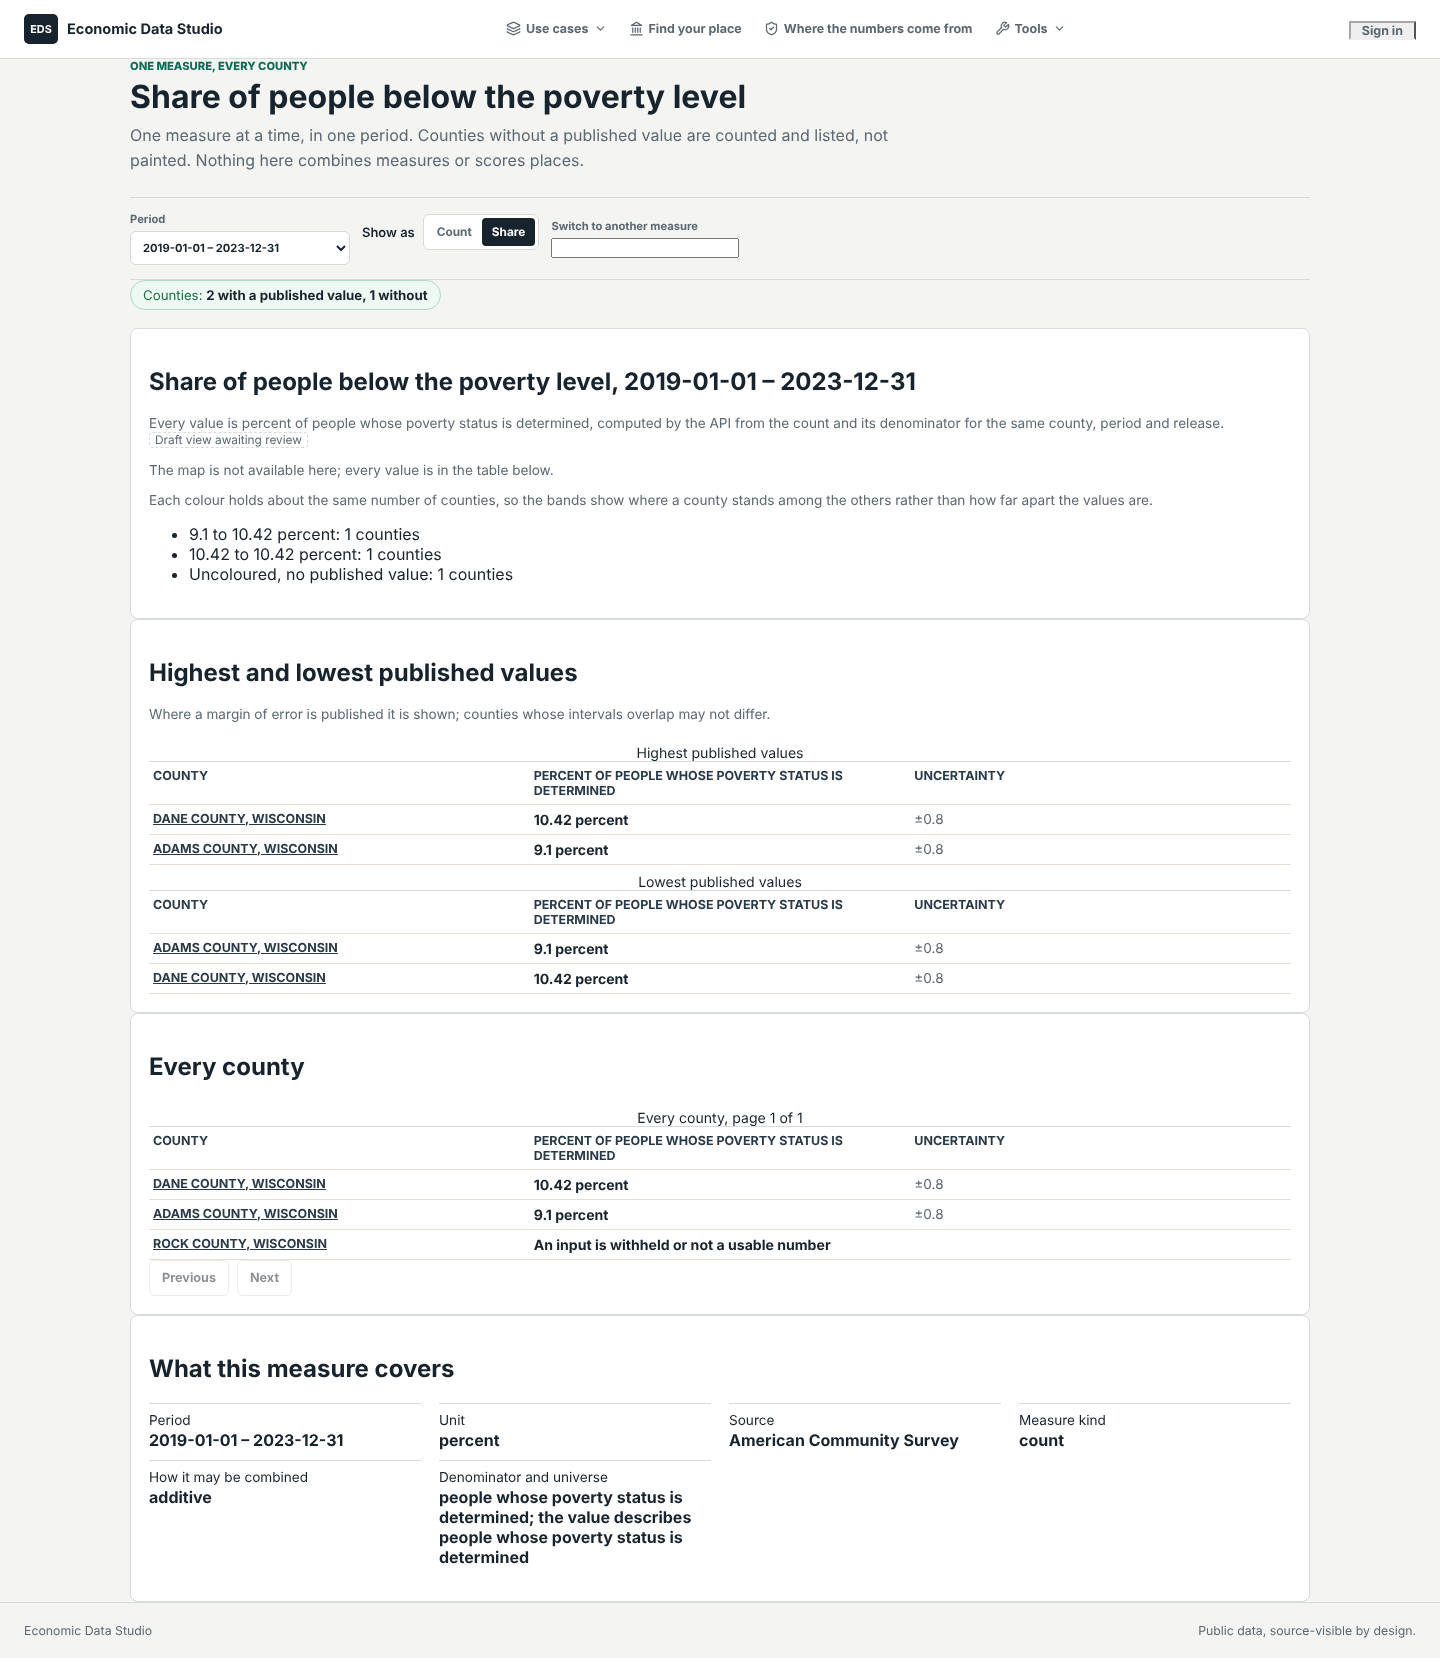
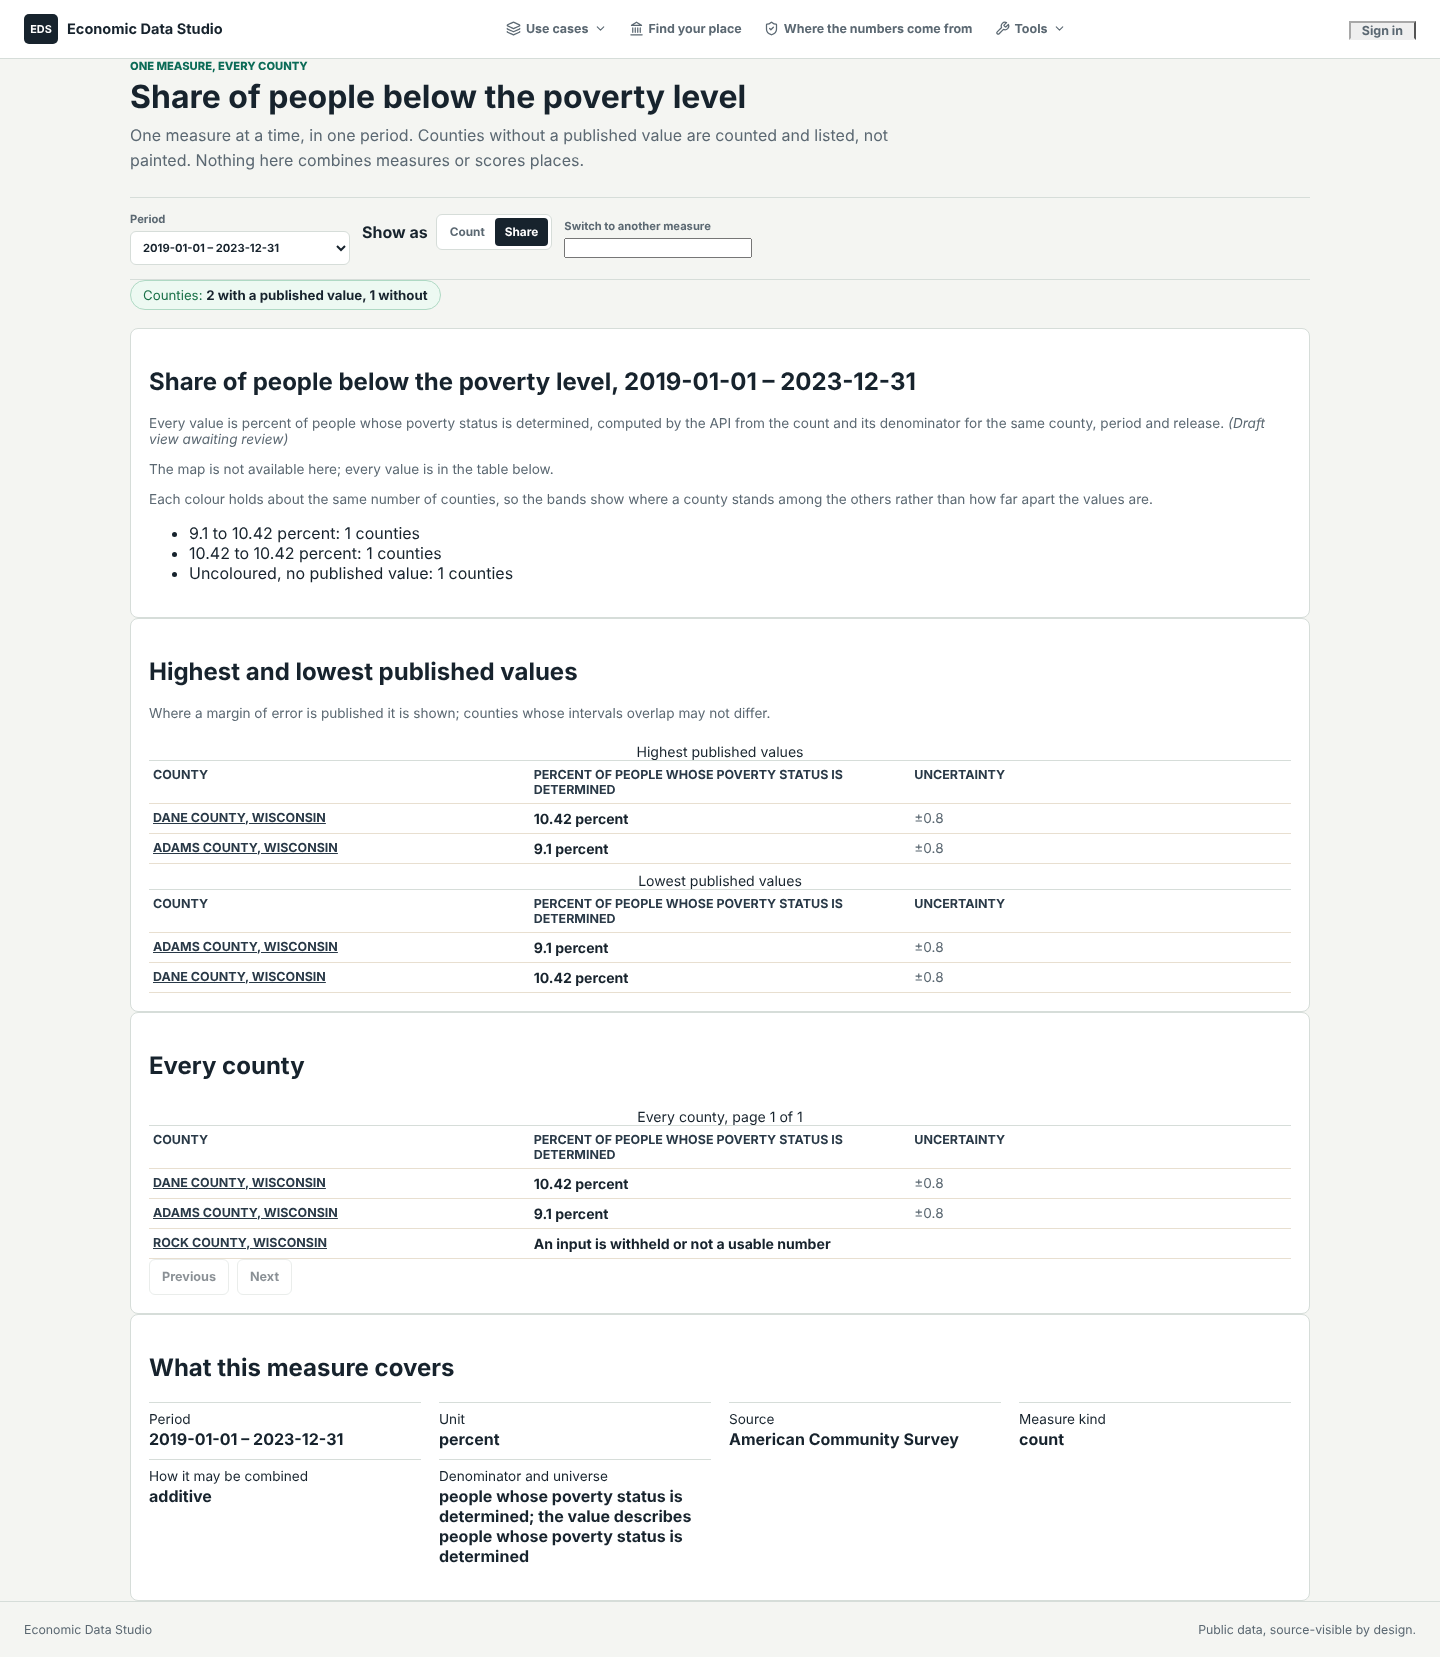
D-6: fit the layout bundle budget; record evidence after the dev merge
Claude-Session: https://claude.ai/code/session_011QW1frTevhjERG1ZHMzHt6

diff --git a/tests/frontend/browser/per-capita-toggle.spec.js b/tests/frontend/browser/per-capita-toggle.spec.js
@@ -38,7 +38,7 @@ test("reported violent crime: a county reads against its state on the FBI's own 
   await expect(page.getByTestId("card-violent-crime-rate-state")).toContainText("Wisconsin");
   const denominator = page.getByTestId("card-violent-crime-rate-denominator");
   await expect(denominator).toHaveText(/Per 100,000 people, denominator: population covered by reporting agencies, as the publisher computed it\./);
-  await expect(denominator.locator("[data-pairing-status='draft']")).toHaveText("Draft view awaiting review");
+  await expect(denominator.locator("[data-pairing-status='draft']")).toHaveText("(Draft view awaiting review)");
   // No count of offenses is on the page to divide, so no toggle is offered.
   await expect(page.getByTestId("chapter-safety-view")).toHaveCount(0);
   await safety.screenshot({ path: "test-results/per-capita/county-violent-crime.png" });
@@ -63,7 +63,7 @@ test("a share names its denominator for the county, its state and the nation", a
     await expect(line).toContainText("of total population (survey)");
     await expect(line).toContainText("2019-01-01 – 2023-12-31");
     await expect(line).toContainText("margin of error ±0.8 (Census Bureau formula for a derived proportion)");
-    await expect(line.locator("[data-pairing-status='draft']")).toHaveText("Draft view awaiting review");
+    await expect(line.locator("[data-pairing-status='draft']")).toHaveText("(Draft view awaiting review)");
   }
   // A measure the registry pairs with nothing keeps its count, and says so.
   await expect(page.getByTestId("chapter-people").locator("[data-testid$='-count-only']").first()).toContainText("showing the count");
@@ -149,7 +149,7 @@ test("the county map shows a count as a share, names the denominator, and keeps 
   await expect(page.getByTestId("measure-map")).toHaveAttribute("data-view", "share");
   await expect(page.getByRole("heading", { level: 1 })).toHaveText("Share of people below the poverty level");
   await expect(page.getByTestId("measure-map-denominator")).toContainText("Every value is percent of people whose poverty status is determined");
-  await expect(page.getByTestId("measure-map-draft")).toHaveText("Draft view awaiting review");
+  await expect(page.getByTestId("measure-map-draft")).toHaveText("(Draft view awaiting review)");
   const all = page.getByTestId("measure-map-all");
   await expect(all.locator("thead")).toContainText("Percent of people whose poverty status is determined");
   await expect(all.locator('tr[data-geo-id="state:55|county:025"] td').first()).toHaveText("10.42 percent");

diff --git a/apps/web/components/DerivedView.tsx b/apps/web/components/DerivedView.tsx
@@ -32,8 +32,8 @@ export function ViewToggle({
 }) {
   if (choices.length < 2) return null;
   return (
-    <div className="derived-toggle" data-testid={testId}>
-      <span className="derived-toggle-label" id={`${testId}-label`}>{label}</span>
+    <div className="command-row derived-toggle" data-testid={testId}>
+      <strong id={`${testId}-label`}>{label}</strong>
       <div className="segmented-control" role="group" aria-labelledby={`${testId}-label`}>
         {choices.map((choice) => (
           <button
@@ -55,16 +55,16 @@ export function ViewToggle({
 export function DraftViewMark({ pairing, testId }: { pairing: Pick<DerivedRatioPairing, "status" | "version">; testId?: string }) {
   if (!isDraft(pairing.status)) return null;
   return (
-    <span className="derived-draft" title={draftViewNote(pairing)} data-pairing-status={pairing.status} data-testid={testId}>
-      {DRAFT_VIEW_TEXT}
-    </span>
+    <em className="subtle" title={draftViewNote(pairing)} data-pairing-status={pairing.status} data-testid={testId}>
+      ({DRAFT_VIEW_TEXT})
+    </em>
   );
 }
 
 /** The denominator a provider's own rate was computed on, named under its card. */
 export function ProviderRateNote({ pairing, testId }: { pairing: DerivedRatioPairing; testId: string }) {
   return (
-    <p className="subtle derived-denominator" data-testid={testId} data-ratio-id={pairing.ratio_id}>
+    <p className="subtle" data-testid={testId} data-ratio-id={pairing.ratio_id}>
       {sentence(pairing.unit)}, {denominatorText(pairing)}.{" "}
       <DraftViewMark pairing={pairing} />
     </p>
@@ -97,7 +97,6 @@ export function DerivedValue({
   const available = row.value !== null && row.value !== undefined && !row.unavailable_reason;
   return (
     <span
-      className="derived-value"
       data-testid={testId}
       data-ratio-id={pairing.ratio_id}
       data-available={available ? "true" : "false"}
@@ -105,7 +104,7 @@ export function DerivedValue({
       data-derived={row.derived ? "true" : "false"}
     >
       <strong>{derivedValueText(row)}</strong>{" "}
-      <span className="derived-denominator">{denominatorText(pairing)}</span>
+      <span className="subtle">{denominatorText(pairing)}</span>
       {period ? <span className="subtle"> · {period}</span> : null}
       {margin ? <span className="subtle"> · {margin}</span> : null}{" "}
       <DraftViewMark pairing={{ status: row.pairing_status, version: row.pairing_version }} />

diff --git a/apps/web/components/PlacePage.tsx b/apps/web/components/PlacePage.tsx
@@ -22,8 +22,6 @@ import {
   fetchAllPages,
   fetchCollectionPages,
   getCapabilities,
-  getDerivedObservations,
-  getDerivedRatios,
   getMetric,
 } from "../lib/api/client";
 import type { CollectionResponse, GeographySummary, MetricSummary, Observation } from "../lib/api/types";
@@ -76,7 +74,7 @@ import type { NearbyGroups, RelatedResponse } from "../lib/placeRelationships";
 import { rankSentence, standouts } from "../lib/distinctive";
 import type { DistinctiveMeasure, DistinctiveResponse } from "../lib/distinctive";
 import { explorerHref } from "../lib/urlState";
-import { pairingFor, providerRateFor, viewChoices } from "../lib/derivedViews";
+import { getDerivedObservations, getDerivedRatios, pairingFor, providerRateFor, viewChoices } from "../lib/derivedViews";
 import type { DerivedRatioObservation, DerivedRatioPairing, ViewChoice } from "../lib/derivedViews";
 import { DerivedValue, ProviderRateNote, ViewToggle } from "./DerivedView";
 import type { GeoLevel } from "../lib/urlState";
@@ -1220,7 +1218,7 @@ function DepthRow({
           <ul className="derived-levels">
             {shown.map((entry) => (
               <li key={entry.geoId} data-testid={`depth-${measure.measure.id}-${entry.level.toLowerCase()}`}>
-                <span className="derived-place">{entry.name}:</span>{" "}
+                <strong>{entry.name}:</strong>{" "}
                 <DerivedValue pairing={pairing} {...(derived.get(derivedKey(pairing.ratio_id, entry.geoId)) || { row: null, pending: true })} />
               </li>
             ))}

diff --git a/apps/web/lib/derivedViews.ts b/apps/web/lib/derivedViews.ts
@@ -5,6 +5,8 @@
 // This module only chooses among the pairings the catalog serves and words
 // what the API returned, so the denominator is named beside every value.
 
+import { apiFetch } from "./api/client";
+import type { QueryParams, RequestOptions } from "./api/client";
 import { formatObservationValue } from "./explorerViewModel";
 import type { ObservationRow } from "./explorerViewModel";
 import { observationPeriodLabel } from "./observationAccess";
@@ -208,4 +210,17 @@ export function derivedMapRow(row: DerivedRatioObservation, viewKey: string): Ob
 
 export function viewKey(pairing: DerivedRatioPairing): string {
   return `derived:${pairing.ratio_id}`;
+}
+
+/** The per-capita and share pairings the API lists. */
+export function getDerivedRatios(
+  params: QueryParams = {},
+  options: RequestOptions = {},
+): Promise<{ total: number; items: DerivedRatioPairing[] }> {
+  return apiFetch<{ total: number; items: DerivedRatioPairing[] }>("/catalog/derived-ratios", { ...options, params });
+}
+
+/** One pairing's values, computed by the API over served rows. */
+export function getDerivedObservations(params: QueryParams, options: RequestOptions = {}): Promise<DerivedRatioPage> {
+  return apiFetch<DerivedRatioPage>("/observations/derived", { ...options, params });
 }

diff --git a/apps/web/lib/api/client.ts b/apps/web/lib/api/client.ts
@@ -27,7 +27,6 @@ import type {
   SourceFreshness,
   SourceSummary,
 } from "./types";
-import type { DerivedRatioPage, DerivedRatioPairing } from "../derivedViews";
 
 export const API_BASE = "/api/v1";
 
@@ -521,22 +520,6 @@ export function getObservations(
   options: RequestOptions = {},
 ): Promise<CollectionResponse<Observation>> {
   return apiFetch<CollectionResponse<Observation>>("/observations", { ...options, params });
-}
-
-/** The per-capita and share pairings the API lists (ADR-0009). */
-export function getDerivedRatios(
-  params: QueryParams = {},
-  options: RequestOptions = {},
-): Promise<{ total: number; items: DerivedRatioPairing[] }> {
-  return apiFetch<{ total: number; items: DerivedRatioPairing[] }>("/catalog/derived-ratios", { ...options, params });
-}
-
-/** One pairing's values, computed by the API over served rows (ADR-0009). */
-export function getDerivedObservations(
-  params: QueryParams,
-  options: RequestOptions = {},
-): Promise<DerivedRatioPage> {
-  return apiFetch<DerivedRatioPage>("/observations/derived", { ...options, params });
 }
 
 // The MVP-shaped observation routes are reached through

diff --git a/apps/web/app/styles/places.css b/apps/web/app/styles/places.css
@@ -369,44 +369,14 @@
   padding-left: 1.1rem;
 }
 
-/* Count, per-capita and share views (web-per-capita-toggle). The
-   denominator is named beside every derived value; a draft pairing says so. */
+/* Count, per-capita and share views (web-per-capita-toggle). */
 .derived-toggle {
-  display: flex;
-  flex-wrap: wrap;
-  align-items: center;
-  gap: 8px;
-  margin: 0 0 12px;
+  margin-bottom: 12px;
 }
-.derived-toggle-label {
-  font-size: 0.81rem;
-  font-weight: 600;
-}
-.derived-toggle .segmented-control button {
+.derived-toggle button {
   text-transform: none;
-}
-.derived-value {
-  overflow-wrap: anywhere;
-}
-.derived-denominator {
-  color: var(--muted);
-}
-.derived-draft {
-  display: inline-block;
-  border: 1px dashed var(--line);
-  border-radius: 4px;
-  padding: 0 5px;
-  font-size: 0.74rem;
-  color: var(--muted);
-  white-space: nowrap;
 }
 .derived-levels {
   list-style: none;
-  margin: 0;
   padding: 0;
-  display: grid;
-  gap: 4px;
-}
-.derived-place {
-  font-weight: 600;
 }

diff --git a/apps/web/components/MeasureMapPage.tsx b/apps/web/components/MeasureMapPage.tsx
@@ -18,7 +18,6 @@ import {
   fetchAllPages,
   fetchCollectionPages,
   getCapabilities,
-  getDerivedRatios,
   getMetric,
   getSources,
   searchMetrics,
@@ -44,7 +43,7 @@ import {
 import { PLACE_CHAPTERS, countySegment, placePath, stateSegment } from "../lib/placeChapters";
 import { discoverTileMetadata } from "../lib/tiles";
 import type { ObservationRow } from "../lib/explorerViewModel";
-import { denominatorText, derivedMapRow, pairingFor, viewChoices, viewKey } from "../lib/derivedViews";
+import { denominatorText, derivedMapRow, getDerivedRatios, pairingFor, viewChoices, viewKey } from "../lib/derivedViews";
 import type { DerivedRatioObservation, DerivedRatioPairing, ViewChoice } from "../lib/derivedViews";
 import { DraftViewMark, ViewToggle } from "./DerivedView";
 

diff --git a/docs/plans/needs_review/WEB_PER_CAPITA_TOGGLE_PLAN.md b/docs/plans/needs_review/WEB_PER_CAPITA_TOGGLE_PLAN.md
@@ -67,13 +67,14 @@ WEB-145 (frontend unit, frontend browser).
 
 ## Evidence (cloud session, Linux, 2026-10-31)
 
-- `npm run test:unit`: 881 passed (6 new in `derived-views.test.js`).
-- `npm run lint`, `npm run typecheck`, `next build`: pass.
-- `npx playwright test`: 256 passed on this branch, 5 new in
-  `per-capita-toggle.spec.js`; 257 passed on a trial merge with D-2 (#177),
-  whose scan for variable codes runs after every browser test.
+- `npm run test:unit`: 884 passed after merging dev (6 new in `derived-views.test.js`).
+- `npm run lint`, `npm run typecheck`, `next build`, `check:bundle` (/layout 506.9 of 507 kB), `check:csp`: pass.
+- `npx playwright test`: 257 passed after merging dev with D-2 (#177), whose
+  scan for variable codes runs after every browser test; 5 new in
+  `per-capita-toggle.spec.js`.
 - Screenshots (browser fixtures): `docs/incidents/screenshots-2026-10-31-per-capita/`.
 - Not verified here: the running site. A-3 serves pairings only with
-  `DERIVED_RATIOS_SERVE_DRAFTS=1`; until A-3's follow-up accepts FBI's
-  `reported` status, the live FBI pairing answers `suppressed_input`
-  (the place cards show the FBI rate itself, so they are unaffected).
+  `DERIVED_RATIOS_SERVE_DRAFTS=1`. #179 fixed the FBI pairing answering
+  `suppressed_input`; the place cards read the FBI rate itself either way.
+- The `/layout` bundle had 0.2 kB of headroom on `dev`, so the styles reuse
+  `command-row`, `segmented-control` and `subtle` and add three rules.
